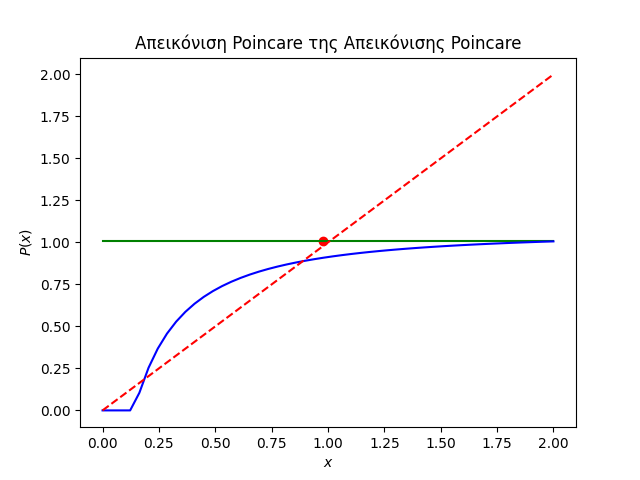
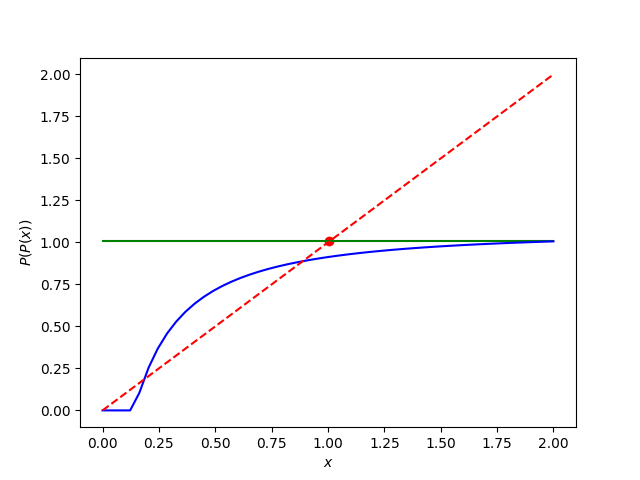
fixed graphs

Changed region(s): [[0.2188, 0.0625, 0.8125, 0.125], [0.0312, 0.4688, 0.0625, 0.5625], [0.5, 0.4688, 0.5312, 0.5312]]

diff --git a/Python/Askisi_3/poinlog.py b/Python/Askisi_3/poinlog.py
@@ -29,14 +29,14 @@ for k in np.arange(len(x0)):
             
         P[j]=x[i]
     PP[k]=P[j]
-idx = np.argwhere(np.diff(np.sign(PP - x0))).flatten()
-print(x0[idx], P[idx])
-plt.plot(x0[idx], PP[idx], 'ro')
+idx = np.argwhere(np.diff(np.sign(PP - P))).flatten()
+print(P[idx], PP[idx])
+plt.plot(P[idx], PP[idx], 'ro')
 plt.plot(x0, PP, 'g')
 plt.plot(x0, P, 'b')
 plt.plot(x0, x0, '--r')
-plt.title('Απεικόνιση Poincare της Απεικόνισης Poincare')
+#plt.title('Απεικόνιση Poincare της Απεικόνισης Poincare')
 plt.xlabel('$x$')
-plt.ylabel('$P(x)$')
+plt.ylabel('$P(P(x))$')
 plt.savefig('Fig/ppoinc.png')
 plt.show()

diff --git a/Python/Askisi_3/poinlog_chh.py b/Python/Askisi_3/poinlog_chh.py
@@ -34,13 +34,13 @@ for k in np.arange(len(h)):
         plt.plot(x0, P, 'b')
         PP[l]=P[j]
     idx = np.argwhere(np.diff(np.sign(PP - x0))).flatten()
-#print(x0[idx], P[idx])
-    plt.plot(x0[idx], PP[idx], 'ro')
+    print(P[idx], P[idx])
+    plt.plot(P[idx], PP[idx], 'ro')
     plt.plot(x0, PP, 'g')
 
 plt.plot(x0, x0, '--r')
 #plt.title('Απεικόνιση Poincare της Απεικόνισης Poincare')
 plt.xlabel('$x$')
-plt.ylabel('$P(x)$')
+plt.ylabel('$P(P(x))$')
 plt.savefig('Fig/ppoinch.png')
 plt.show()

diff --git a/Python/Askisi_3/poinlog_che.py b/Python/Askisi_3/poinlog_che.py
@@ -34,13 +34,13 @@ for k in np.arange(len(e)):
         plt.plot(x0, P, 'b')
         PP[l]=P[j]
     idx = np.argwhere(np.diff(np.sign(PP - x0))).flatten()
-#print(x0[idx], P[idx])
+    print(x0[idx], P[idx])
     plt.plot(x0[idx], PP[idx], 'ro')
     plt.plot(x0, PP, 'g')
 
 plt.plot(x0, x0, '--r')
 #plt.title('Απεικόνιση Poincare της Απεικόνισης Poincare')
 plt.xlabel('$x$')
-plt.ylabel('$P(x)$')
+plt.ylabel('$P(P(x))$')
 plt.savefig('Fig/ppoinche.png')
 plt.show()
